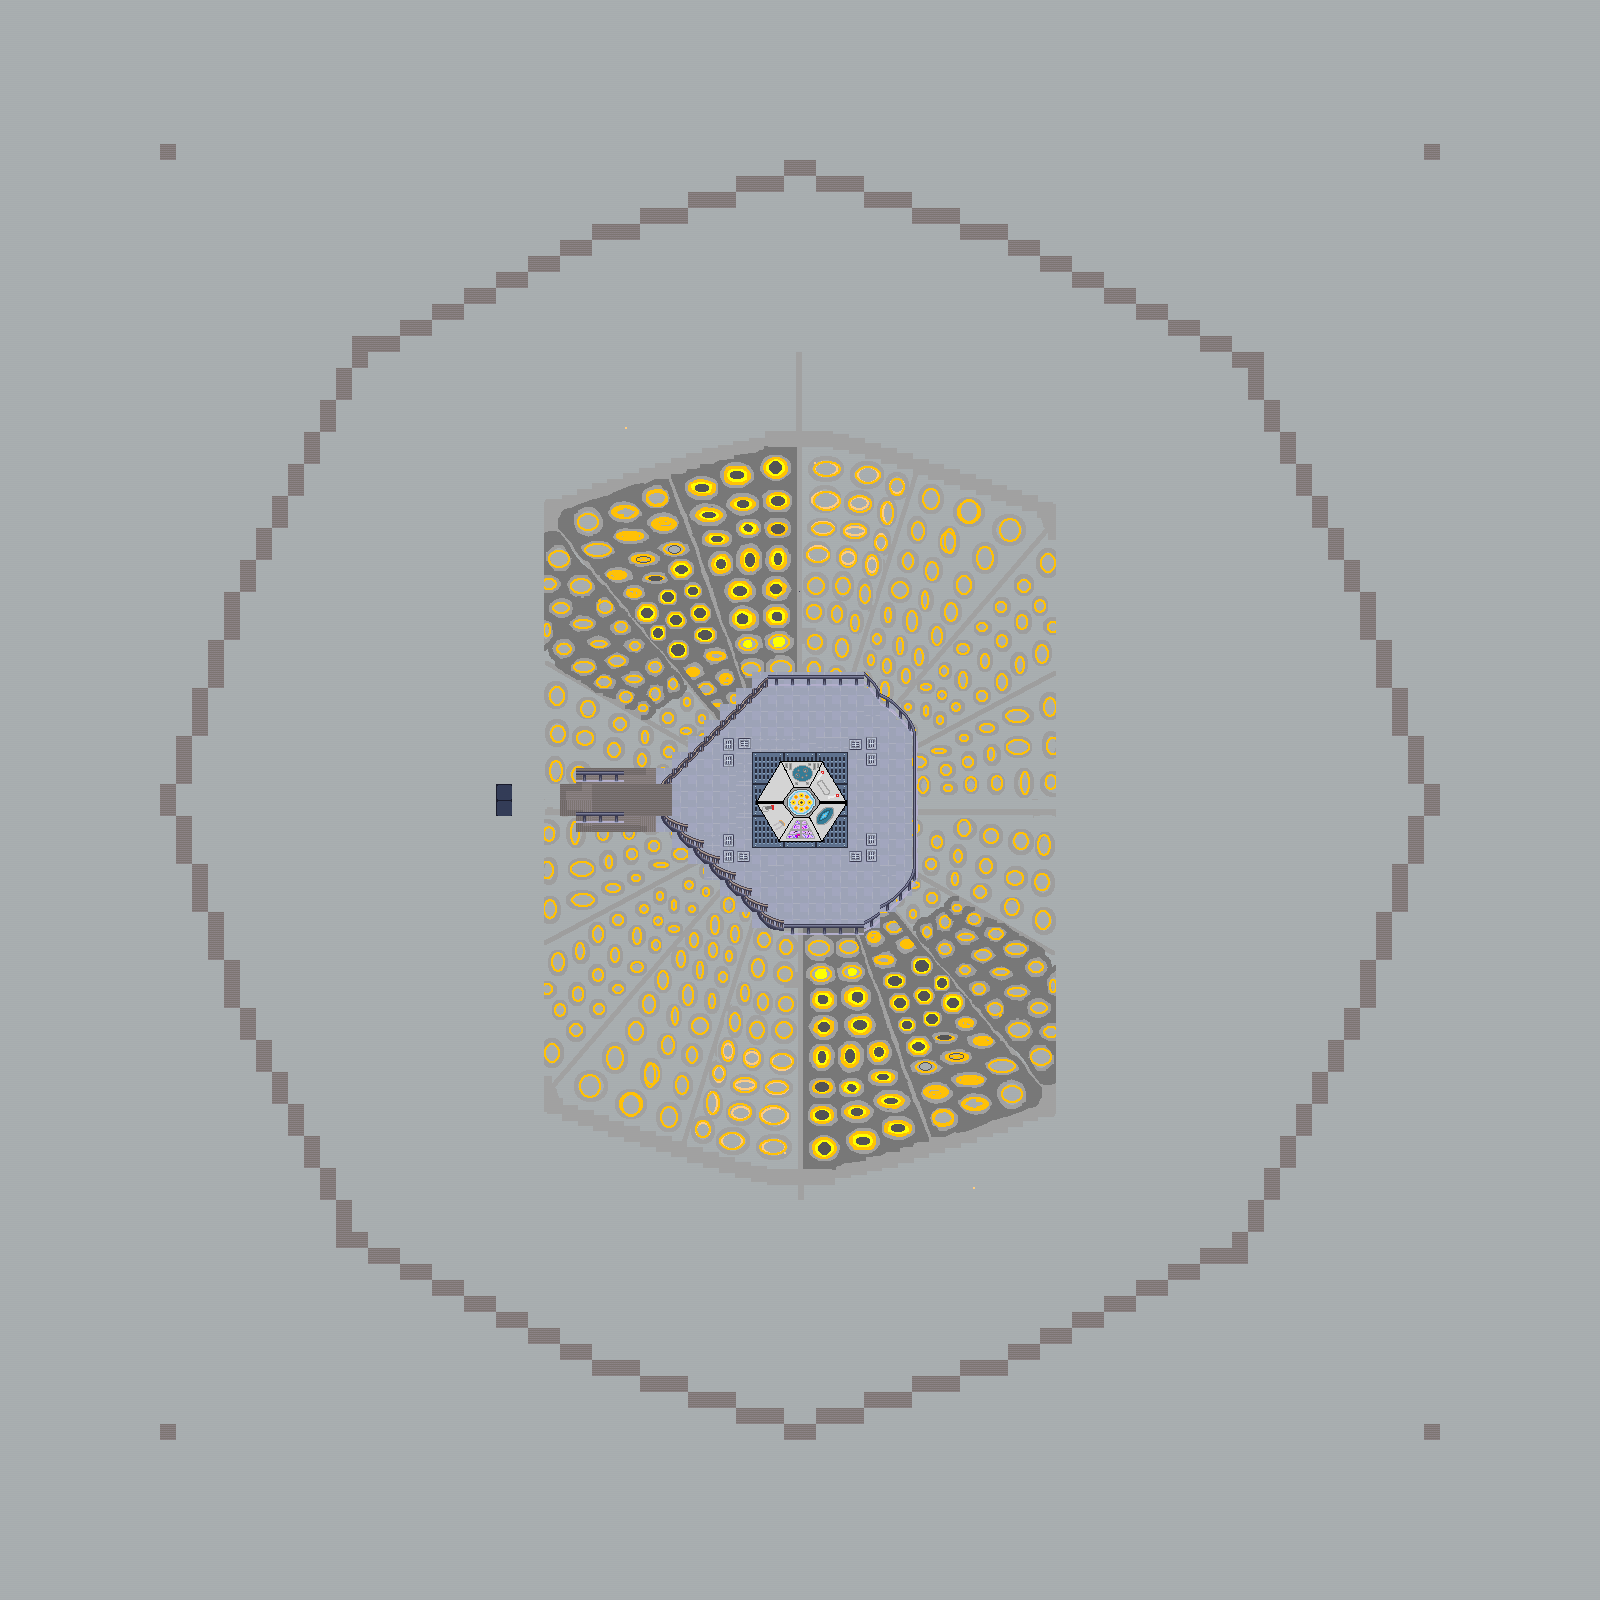
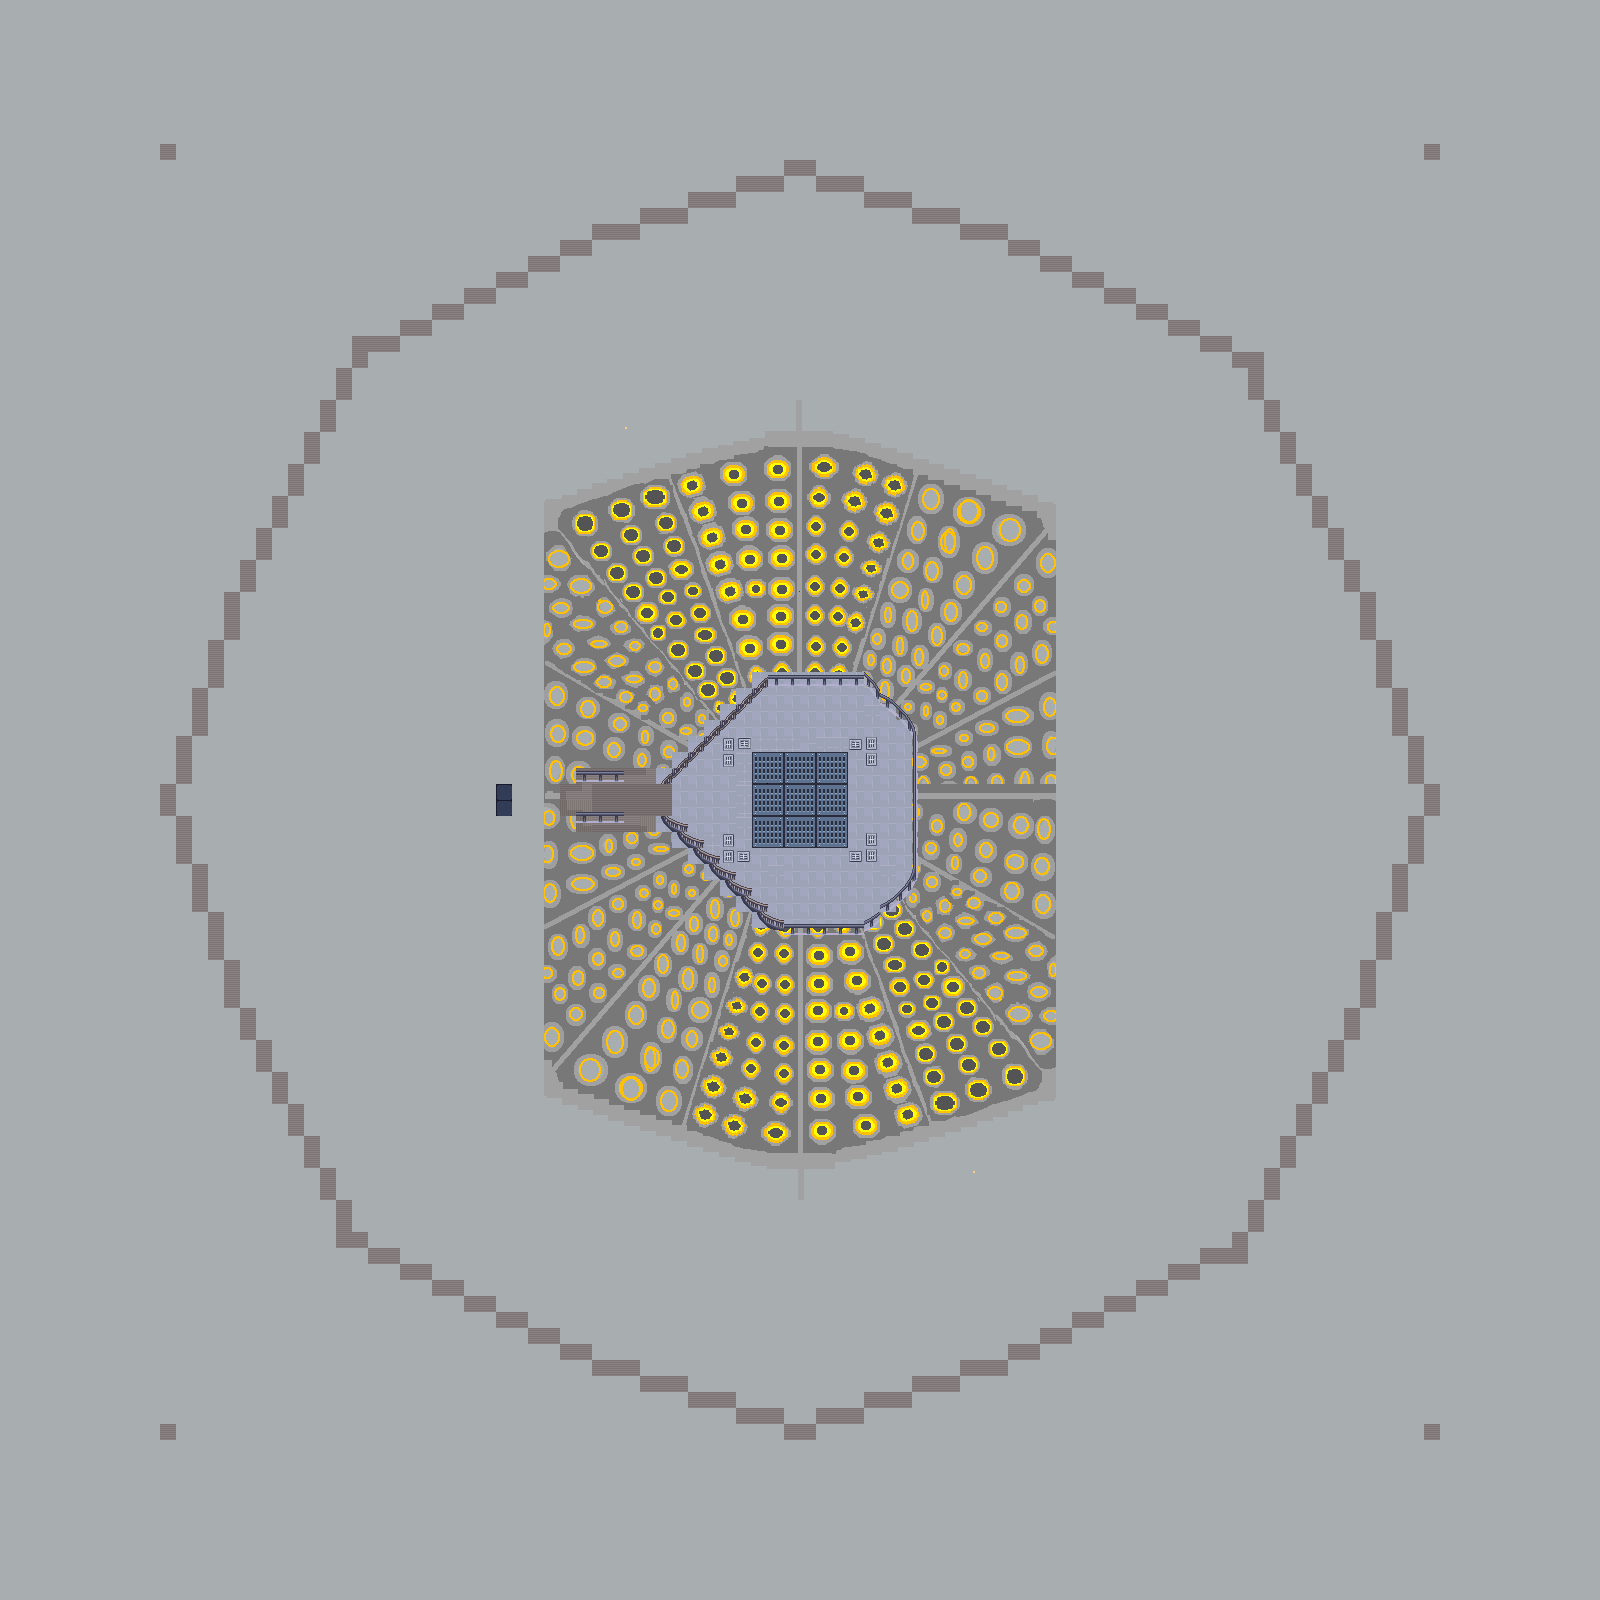
tardis console is now a gameObject

Changed region(s): [[0.3438, 0.2812, 0.6562, 0.75], [0.4688, 0.4688, 0.5312, 0.5312]]

diff --git a/Console.js b/Console.js
@@ -1,4 +1,4 @@
-class Sprite {
+class Console {
   constructor(config) {
     // Set up the image
     this.image = new Image();
@@ -20,37 +20,11 @@ class Sprite {
 
     // Configure Animation and initial state
     this.animations = config.animations || {
-      "idle-down": [[0, 0]],
-      "idle-right": [[0, 1]],
-      "idle-up": [[0, 2]],
-      "idle-left": [[0, 3]],
-      "walk-down": [
-        [1, 0],
-        [0, 0],
-        [3, 0],
-        [0, 0],
-      ],
-      "walk-right": [
-        [1, 1],
-        [0, 1],
-        [3, 1],
-        [0, 1],
-      ],
-      "walk-up": [
-        [1, 2],
-        [0, 2],
-        [3, 2],
-        [0, 2],
-      ],
-      "walk-left": [
-        [1, 3],
-        [0, 3],
-        [3, 3],
-        [0, 3],
-      ],
+      start: [[0, 0]],
+      "cirleLever-down": [[1, 0]],
     };
     //this.currentAnimation = config.currentAnimation || "idle-down";
-    this.currentAnimation = "idle-right";
+    this.currentAnimation = "cirleLever-down";
     this.currentAnimationFrame = 0;
 
     this.animationFrameLimit = config.animationFrameLimit || 8;
@@ -97,28 +71,38 @@ class Sprite {
     const [frameX, frameY] = this.frame;
 
     /*
-    if (this.image.src.includes("characters-doctor-who")) {
-      this.isLoaded &&
-        ctx.drawImage(this.image, 0, 0, 128, 128, x + 4, y + 4, 32, 32);
-    } else {
-      this.isLoaded &&
-        ctx.drawImage(
-          this.image,
-          frameX * 32,
-          frameY * 32,
-          32,
-          32,
-          x,
-          y,
-          32,
-          32
-        );
-    }
-        */
+      if (this.image.src.includes("characters-doctor-who")) {
+        this.isLoaded &&
+          ctx.drawImage(this.image, 0, 0, 128, 128, x + 4, y + 4, 32, 32);
+      } else {
+        this.isLoaded &&
+          ctx.drawImage(
+            this.image,
+            frameX * 32,
+            frameY * 32,
+            32,
+            32,
+            x,
+            y,
+            32,
+            32
+          );
+      }
+          */
 
     console.log("Image: ", this.image);
     this.isLoaded &&
-      ctx.drawImage(this.image, frameX * 32, frameY * 32, 32, 32, x, y, 32, 32);
+      ctx.drawImage(
+        this.image,
+        frameX * 100,
+        frameY * 100,
+        100,
+        100,
+        x,
+        y,
+        100,
+        100
+      );
 
     this.updateAnimationProgress();
   }

diff --git a/GameObject.js b/GameObject.js
@@ -5,10 +5,20 @@ class GameObject {
     this.x = config.x || 0;
     this.y = config.y || 0;
     this.direction = config.direction || "down";
-    this.sprite = new Sprite({
-      gameObject: this,
-      src: config.src || "/images/characters/people/hero.png",
-    });
+
+    this.isConsole = config.isConsole || false;
+
+    if (this.isConsole) {
+      this.sprite = new Console({
+        gameObject: this,
+        src: config.src || "/images/characters/people/hero.png",
+      });
+    } else {
+      this.sprite = new Sprite({
+        gameObject: this,
+        src: config.src || "/images/characters/people/hero.png",
+      });
+    }
 
     this.behaviorLoop = config.behaviorLoop || [];
     this.behaviorLoopIndex = 0;

diff --git a/Overworld.js b/Overworld.js
@@ -15,7 +15,6 @@ class OverWorld {
       const cameraPerson = this.map.gameObjects.hero;
 
       // Update all objects
-
       Object.values(this.map.gameObjects).forEach((object) => {
         object.update({
           arrow: this.directionInput.direction,
@@ -27,12 +26,12 @@ class OverWorld {
       this.map.drawLowerImage(this.ctx, cameraPerson);
 
       //Draw Game Objects
-
       Object.values(this.map.gameObjects)
         .sort((a, b) => {
           return a.y - b.y;
         })
         .forEach((object) => {
+          console.log("object: ", object);
           object.sprite.draw(this.ctx, cameraPerson);
         });
 

diff --git a/OverWorldMap.js b/OverWorldMap.js
@@ -218,7 +218,7 @@ window.OverworldMaps = {
     },
   },
   Tardis: {
-    lowerSrc: "/images/tardis/Tardis-map-v11.png",
+    lowerSrc: "/images/tardis/Tardis-map-v10.png",
     upperSrc: "/images/maps/KitchenUpper.png",
     gameObjects: {
       hero: new Person({
@@ -242,6 +242,12 @@ window.OverworldMaps = {
             ],
           },
         ],
+      }),
+      console: new GameObject({
+        x: utils.withGrid(47.5),
+        y: utils.withGrid(48),
+        src: "/images/tardis/tardis-console.png",
+        isConsole: true,
       }),
     },
     cutsceneSpaces: {

diff --git a/index.html b/index.html
@@ -54,6 +54,7 @@
           "GameObject.js",
           "Person.js",
           "Sprite.js",
+          "Console.js",
           "OverWorldMap.js",
           "OverworldEvent.js",
           "TextMessage.js",

diff --git a/styles/global.css b/styles/global.css
@@ -58,7 +58,7 @@ body {
 
   .game-container {
     width: 95vw;
-    height: 30vh;
+    height: 40vh;
   }
 }
 
